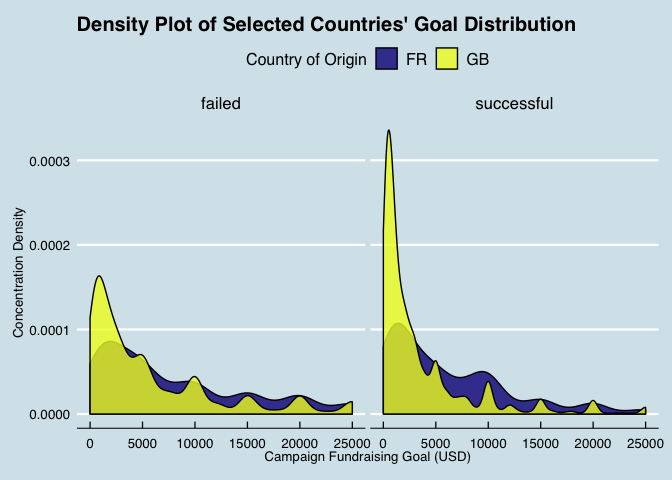
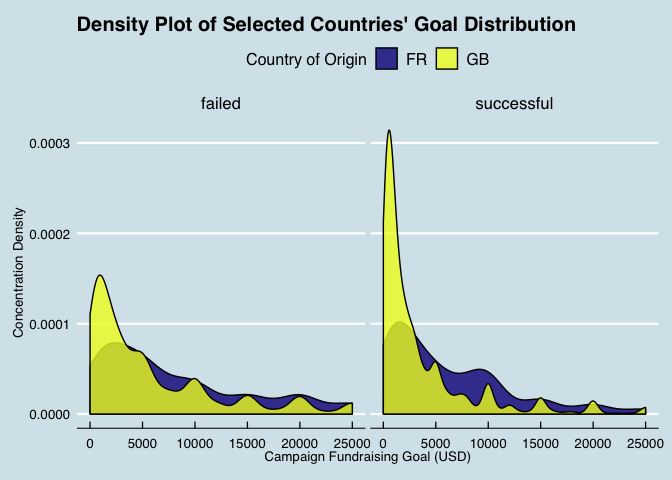
cleaning up outdated data paths

diff --git a/eda-and-visualization/eda_and_visualization.md b/eda-and-visualization/eda_and_visualization.md
@@ -1,7 +1,7 @@
-Exploratory Data Analysis (EDA) and Visualization in R
+Exploratory Data Analysis (EDA) and Visualization
 ================
-Paul Jeffries
-13 September, 2018
+[Paul Jeffries](https://twitter.com/ByPaulJ)
+31 March, 2019
 
 -   [Introduction](#introduction)
     -   [Setup](#setup)
@@ -15,12 +15,10 @@ Paul Jeffries
     -   [Histograms](#histograms)
     -   [Density Plots](#density-plots)
 
-**NOTE: this is an early work in progress. Check back shortly for new additions**
-
 Introduction
 ============
 
-The purpose of this document is to serve as a smorgasbord of EDA techniques and visualization tools.
+The purpose of this document is to serve as a smorgasbord of EDA techniques and visualization tools. It is a work in progress, so check back occasionally for new additions.
 
 Setup
 -----
@@ -51,7 +49,7 @@ The data used in this document come from a [Kaggle post](https://www.kaggle.com/
 
 ``` r
 # importing the dataset from the CSV
-base_df <- read.csv("./hypothesis_tests/data/ks-projects-201801.csv")
+base_df <- read.csv("./hypothesis-tests/data/ks-projects-201801-sampled.csv")
 ```
 
 ``` r
@@ -59,23 +57,24 @@ base_df <- read.csv("./hypothesis_tests/data/ks-projects-201801.csv")
 glimpse(base_df)
 ```
 
-    ## Observations: 378,661
-    ## Variables: 15
-    ## $ ID               <int> 1000002330, 1000003930, 1000004038, 100000754...
-    ## $ name             <fct> The Songs of Adelaide & Abullah, Greeting Fro...
-    ## $ category         <fct> Poetry, Narrative Film, Narrative Film, Music...
-    ## $ main_category    <fct> Publishing, Film & Video, Film & Video, Music...
-    ## $ currency         <fct> GBP, USD, USD, USD, USD, USD, USD, USD, USD, ...
-    ## $ deadline         <fct> 2015-10-09, 2017-11-01, 2013-02-26, 2012-04-1...
-    ## $ goal             <dbl> 1000, 30000, 45000, 5000, 19500, 50000, 1000,...
-    ## $ launched         <fct> 2015-08-11 12:12:28, 2017-09-02 04:43:57, 201...
-    ## $ pledged          <dbl> 0.00, 2421.00, 220.00, 1.00, 1283.00, 52375.0...
-    ## $ state            <fct> failed, failed, failed, failed, canceled, suc...
-    ## $ backers          <int> 0, 15, 3, 1, 14, 224, 16, 40, 58, 43, 0, 100,...
-    ## $ country          <fct> GB, US, US, US, US, US, US, US, US, US, CA, U...
-    ## $ usd.pledged      <dbl> 0.00, 100.00, 220.00, 1.00, 1283.00, 52375.00...
-    ## $ usd_pledged_real <dbl> 0.00, 2421.00, 220.00, 1.00, 1283.00, 52375.0...
-    ## $ usd_goal_real    <dbl> 1533.95, 30000.00, 45000.00, 5000.00, 19500.0...
+    ## Observations: 189,330
+    ## Variables: 16
+    ## $ X                <int> 1, 2, 3, 4, 5, 6, 7, 8, 9, 10, 11, 12, 13, 14, …
+    ## $ ID               <int> 136458340, 381995336, 1425707545, 960476049, 96…
+    ## $ name             <fct> "Squid Packs: a personalized twist on the class…
+    ## $ category         <fct> Product Design, Tabletop Games, Software, Food,…
+    ## $ main_category    <fct> Design, Games, Technology, Food, Technology, Pu…
+    ## $ currency         <fct> USD, USD, USD, EUR, AUD, USD, USD, USD, USD, US…
+    ## $ deadline         <fct> 2012-11-19, 2013-09-30, 2014-09-12, 2015-03-07,…
+    ## $ goal             <dbl> 5000, 8000, 525, 5000, 15000, 1000, 10000, 6000…
+    ## $ launched         <fct> 2012-10-18 19:27:07, 2013-08-23 15:00:56, 2014-…
+    ## $ pledged          <dbl> 7458.00, 52693.00, 100.00, 0.00, 6527.00, 2845.…
+    ## $ state            <fct> successful, successful, failed, canceled, cance…
+    ## $ backers          <int> 78, 566, 1, 0, 83, 96, 494, 179, 1, 551, 18, 28…
+    ## $ country          <fct> US, US, US, IE, AU, US, US, US, US, US, GB, US,…
+    ## $ usd.pledged      <dbl> 7458.00, 52693.00, 100.00, 0.00, 181.86, 2845.0…
+    ## $ usd_pledged_real <dbl> 7458.00, 52693.00, 100.00, 0.00, 4873.81, 2845.…
+    ## $ usd_goal_real    <dbl> 5000.00, 8000.00, 525.00, 5286.03, 11200.72, 10…
 
 Exploring and Cleaning the Data
 -------------------------------
@@ -130,29 +129,32 @@ psych::describe(x = base_df, IQR = TRUE, omit = TRUE)
 ```
 
     ##                  vars      n          mean           sd        median
-    ## id                  1 374864 1074651369.45 619135733.97 1075277164.00
-    ## goal                7 374864      49523.10   1189355.29       5500.00
-    ## pledged             9 374864       9750.44     96010.43        620.00
-    ## backers            11 374864        106.69       911.71         12.00
-    ## usd_pledged        13 374864       7036.73     78639.75        394.72
-    ## usd_pledged_real   14 374864       9120.80     91319.21        624.41
-    ## usd_goal_real      15 374864      45863.18   1158761.22       5500.00
+    ## x                   1 187460      94682.24     54647.10      94699.50
+    ## id                  2 187460 1076291115.07 619545515.03 1075335076.50
+    ## goal                8 187460      47842.61   1142096.55       5500.00
+    ## pledged            10 187460       9555.46     85814.15        616.00
+    ## backers            12 187460        106.16       832.66         12.00
+    ## usd_pledged        14 187460       6997.59     73034.81        392.00
+    ## usd_pledged_real   15 187460       9016.19     82883.26        619.73
+    ## usd_goal_real      16 187460      45097.62   1167570.74       5500.00
     ##                        trimmed          mad     min        max      range
-    ## id               1074796426.08 794703948.08 5971.00 2147476221 2147470250
-    ## goal                   9772.49      6671.70    0.01  100000000  100000000
-    ## pledged                2118.77       919.21    0.00   20338986   20338986
-    ## backers                  29.34        17.79    0.00     219382     219382
-    ## usd_pledged            1564.03       585.21    0.00   20338986   20338986
-    ## usd_pledged_real       2092.57       925.75    0.00   20338986   20338986
-    ## usd_goal_real          9500.39      6671.70    0.01  166361391  166361391
-    ##                    skew kurtosis         se           IQR
-    ## id                 0.00    -1.20 1011227.81 1072066572.25
-    ## goal              70.44  5519.08    1942.56      14500.00
-    ## pledged           74.96  9952.63     156.81       4049.00
-    ## backers           86.34 13818.11       1.49         55.00
-    ## usd_pledged      105.90 18960.57     128.44       3017.11
-    ## usd_pledged_real  82.00 11733.81     149.15       4019.82
-    ## usd_goal_real     77.83  7011.92    1892.59      14000.00
+    ## x                     94685.82     70160.34    1.00     189330     189329
+    ## id               1076642343.93 795532896.43 5971.00 2147455254 2147449283
+    ## goal                   9749.60      6671.70    0.15  100000000  100000000
+    ## pledged                2110.63       913.28    0.00   12779843   12779843
+    ## backers                  29.30        17.79    0.00      91585      91585
+    ## usd_pledged            1557.43       581.18    0.00   12779843   12779843
+    ## usd_pledged_real       2087.01       918.81    0.00   12779843   12779843
+    ## usd_goal_real          9484.33      6671.70    0.15  166361391  166361391
+    ##                   skew kurtosis         se           IQR
+    ## x                 0.00    -1.20     126.22      94644.50
+    ## id                0.00    -1.20 1430931.72 1073182647.50
+    ## goal             72.55  5883.53    2637.84      14152.50
+    ## pledged          55.76  5318.01     198.20       4048.00
+    ## backers          54.10  4380.39       1.92         55.00
+    ## usd_pledged      77.71  9564.40     168.68       3007.77
+    ## usd_pledged_real 60.32  6075.24     191.43       4015.00
+    ## usd_goal_real    83.11  8127.30    2696.68      13982.01
 
 Bespoke Visualizations
 ======================
@@ -241,7 +243,7 @@ base_df %>%
       viridis::scale_fill_viridis(discrete=TRUE, option="plasma") +
       ggthemes::theme_economist() +
       # custom axis limits; for this kind of chart I prefer to set these manually
-      scale_y_continuous(limits = c(0, 1250)) +
+      scale_y_continuous(limits = c(0, 700)) +
       # setting legend and axis aesthetic details
       theme(
         legend.position = "top",
@@ -284,8 +286,8 @@ base_df %>%
   ) %>%
   dplyr::group_by(country, custom_buckets) %>%
   # gets teh grouped by within-category percent
-  summarise(n = n()) %>%
-  mutate(freq = n / sum(n)) %>%
+  dplyr::summarise(n = n()) %>%
+  dplyr::mutate(freq = n / sum(n)) %>%
     # base ggplot call
     ggplot(., aes(custom_buckets, freq)) +
       geom_bar(aes(fill = country), color = "black", position = "dodge", stat="identity") +

diff --git a/classification/logit/logistic_regression.md b/classification/logit/logistic_regression.md
@@ -1,7 +1,7 @@
 Logistic Regression in R
 ================
-Paul Jeffries
-07 February, 2019
+[Paul Jeffries](https://twitter.com/ByPaulJ)
+31 March, 2019
 
 -   [Introduction](#introduction)
     -   [Setup](#setup)
@@ -49,14 +49,11 @@ Setup
 ``` r
 # first a few general set-up items / housekeeping items
 
-# setting the appropriate working directory
-knitr::opts_knit$set(root.dir = '/Users/pauljeffries/Desktop/personal/personal_code/data-science-toolkit-master/classification')
-
 # setting scipen options to kill all use of scientific notation
 options(scipen = 999)
 
 # basic packages needed throughout
-library(dplyr) # for piping
+library(tidyverse) # for all things tidy 
 library(ggplot2) # for visualization
 library(ggthemes) # for custom visualization
 library(broom) # needing for tidying model summary output into a df
@@ -206,7 +203,7 @@ library(DataExplorer) # allows for creation of missing values map
 DataExplorer::plot_missing(white_main_df) # shows % of NAs within each variable
 ```
 
-![](logistic_regression_files/figure-markdown_github/unnamed-chunk-5-1.png)
+![](logistic_regression_files/figure-markdown_github/unnamed-chunk-6-1.png)
 
 Good news at this point is this dataset looks perfectly clean of nulls! If there were any problems with nulls, I would solve it using complete.cases() or something similar.
 
@@ -220,14 +217,14 @@ Below I'll demonstrate the DataExplorer function for both histogram and density 
 DataExplorer::plot_histogram(data = white_main_df, title = "Continuous Variables Explored (Histograms)")
 ```
 
-![](logistic_regression_files/figure-markdown_github/unnamed-chunk-6-1.png)
+![](logistic_regression_files/figure-markdown_github/unnamed-chunk-7-1.png)
 
 ``` r
 # then a density chart of all continous variables in the dataset
 DataExplorer::plot_density(data = white_main_df, title = "Continuous Variables Explored (Density Plots)")
 ```
 
-![](logistic_regression_files/figure-markdown_github/unnamed-chunk-7-1.png)
+![](logistic_regression_files/figure-markdown_github/unnamed-chunk-8-1.png)
 
 ### Categorical Variable Exploration
 
@@ -238,7 +235,7 @@ DataExplorer::plot_density(data = white_main_df, title = "Continuous Variables E
 plot_bar(data = white_main_df, order_bar = FALSE, title = "Categorical Variables Explored")
 ```
 
-![](logistic_regression_files/figure-markdown_github/unnamed-chunk-8-1.png)
+![](logistic_regression_files/figure-markdown_github/unnamed-chunk-9-1.png)
 
 Here we can see that the quality of these wines are rougly normally distirbuted, with the most common quality score being 6, and very few scores coming in &lt;= 4 or &gt;= 8.
 
@@ -355,7 +352,7 @@ corrplot(corr_matrix, p.mat = res1$p, method = "color", type = "upper",
          insig = "label_sig", pch.col = "black", order = "AOE", na.label = "NA")
 ```
 
-![](logistic_regression_files/figure-markdown_github/unnamed-chunk-14-1.png)
+![](logistic_regression_files/figure-markdown_github/unnamed-chunk-15-1.png)
 
 ``` r
 # and finally I'll build a simpler corrplot to get the strength of correlation numbers visualized
@@ -363,7 +360,7 @@ corrplot(corr_matrix, method = "number", type = "upper", pch.cex = .9,
          order = "AOE", number.cex = .7, na.label = "NA")
 ```
 
-![](logistic_regression_files/figure-markdown_github/unnamed-chunk-14-2.png)
+![](logistic_regression_files/figure-markdown_github/unnamed-chunk-15-2.png)
 
 Takeways from these types of exploratory techniques can help us to create a more informed model. We may, depending on the circumstances, treat variables differently in our model-building process as a result of these types of charts. For example, we might discover a great degree of cross-correlation that allows us to delete duplicative variables, etc. We can notice a few interesting trends from our results above in this case:
 
@@ -476,7 +473,7 @@ scale_color_economist( name = "data", labels = c( "negative", "positive" ) ) +
 theme_economist()
 ```
 
-![](logistic_regression_files/figure-markdown_github/unnamed-chunk-18-1.png)
+![](logistic_regression_files/figure-markdown_github/unnamed-chunk-19-1.png)
 
 ``` r
 # distribution of the prediction score grouped by known outcome (for testing set only)
@@ -487,7 +484,7 @@ scale_color_economist( name = "data", labels = c( "negative", "positive" ) ) +
 theme_economist()
 ```
 
-![](logistic_regression_files/figure-markdown_github/unnamed-chunk-18-2.png)
+![](logistic_regression_files/figure-markdown_github/unnamed-chunk-19-2.png)
 
 Determining What Classification Cutoff is Appropriate (Simple Logit)
 --------------------------------------------------------------------
@@ -528,7 +525,7 @@ accuracy_info <- AccuracyCutoffInfo(train = predictions_train_full,
 accuracy_info$plot
 ```
 
-![](logistic_regression_files/figure-markdown_github/unnamed-chunk-21-1.png)
+![](logistic_regression_files/figure-markdown_github/unnamed-chunk-22-1.png)
 
 From the chart above we can begin to see where the optimal cutoff may be. That said, the metric we are using above is overall model accuracy. Next, we'll dive into some methods that make more sense when we are targetting a particular type of accuracy. For example, maybe we care more about catching every possible bad white wine, even at the risk of misclassifying a massive number of good wines. With the functions below, these model optimization tradeoffs become easier to control and visualize. They will vary according to the question at hand.
 
@@ -575,7 +572,7 @@ cm_info <- ConfusionMatrixInfo(data = predictions_test_full,
 cm_info$plot
 ```
 
-![](logistic_regression_files/figure-markdown_github/unnamed-chunk-23-1.png)
+![](logistic_regression_files/figure-markdown_github/unnamed-chunk-24-1.png)
 
 Lastly, we'll use the cutoff we have arrived at from the work above to test the model's predictions; think of this section as the cross-tab version of the confusion matrix plot shown above.
 
@@ -668,7 +665,6 @@ For a more piecemeal approach to learning about ridge regression methods--and la
 -   [Stanford slides on ridge regression and lasso](http://statweb.stanford.edu/~tibs/sta305files/Rudyregularization.pdf)
 -   [Helpful explanation with difference between ridge and lasso](https://codingstartups.com/practical-machine-learning-ridge-regression-vs-lasso/)
 -   [Short and sweet tl;dr of lasso's utility](https://stats.stackexchange.com/questions/17251/what-is-the-lasso-in-regression-analysis)
--   [My personal favorite vignette by the authors of the glmnet package](https://web.stanford.edu/~hastie/glmnet/glmnet_alpha.html#log)
 
 Notes and Warning on Model Matrix Construction and Dummy Variables
 ------------------------------------------------------------------
@@ -807,7 +803,7 @@ The ultimate goal with this hyperparameter-tuning exercise is to pick a lambda t
 plot(cv.lasso)
 ```
 
-![](logistic_regression_files/figure-markdown_github/unnamed-chunk-30-1.png)
+![](logistic_regression_files/figure-markdown_github/unnamed-chunk-31-1.png)
 
 The two common choices are shown visually with dotted lines, in turn: - Lambda Min (the value that minimizes the prediction error) - Lambda LSE (gives the simplest model but also lies within one SE of the optimal value of lambda)
 
@@ -1190,7 +1186,7 @@ cv.lasso <- cv.glmnet(x, y, alpha = 1, family = "binomial")
 plot(cv.lasso)
 ```
 
-![](logistic_regression_files/figure-markdown_github/unnamed-chunk-44-1.png)
+![](logistic_regression_files/figure-markdown_github/unnamed-chunk-45-1.png)
 
 ### First the Coefficients for the Lambda min DBSMOTE Lasso
 

diff --git a/text-mining-and-nlp/nlp_and_text_mining.md b/text-mining-and-nlp/nlp_and_text_mining.md
@@ -1,7 +1,7 @@
 NLP & Text-Mining in R
 ================
-Paul Jeffries
-16 September, 2018
+[Paul Jeffries](https://twitter.com/ByPaulJ)
+31 March, 2019
 
 -   [Introduction](#introduction)
     -   [How to Access the Raw Data](#how-to-access-the-raw-data)
@@ -251,7 +251,7 @@ head(docs[[3]])
     ## 
     ## $meta
     ##   author       : character(0)
-    ##   datetimestamp: 2018-09-16 23:11:42
+    ##   datetimestamp: 2019-03-31 20:46:05
     ##   description  : character(0)
     ##   heading      : character(0)
     ##   id           : 3
@@ -473,4 +473,4 @@ word_association_hunter(term="god", maxprint = 10)
 Conclusion and Further Improvements
 ===================================
 
-There is clearly a massive amount of further analysis that could be performed on this data, and I look forward to exploring this more! I have essentially no experience working with text data, so this is some of the simplest stuff that can be done. That said, this is just meant to be a start, and hopefully others will be able to use these techniques and functions themselves, build/improve on them, etc. Please feel free to suggest further improvements to this work, as always, [by opening an "Issue".](https://github.com/pmaji/data-science-toolkit/issues)
+There is clearly a massive amount of further analysis that could be performed on this data, and I look forward to exploring this more! I have essentially no experience working with text data, so this is some of the simplest stuff that can be done. That said, this is just meant to be a start, and hopefully others will be able to use these techniques and functions themselves, build/improve on them, etc. One other package for visualizing word clouds that I'd like to explore in the future beyond what you've seen here is [the ggwordcloud package](https://cran.r-project.org/web/packages/ggwordcloud/vignettes/ggwordcloud.html) which I first heard about [via Twitter thanks](https://twitter.com/harrocyranka/status/1110681476897689600?s=20) to Harro Cyranka. His code example of ggwordcloud that inspired this thought [can be found here](https://github.com/Cyranka/rviz/blob/master/tidy_tuesday_2019_week_13/first_pas.R).
